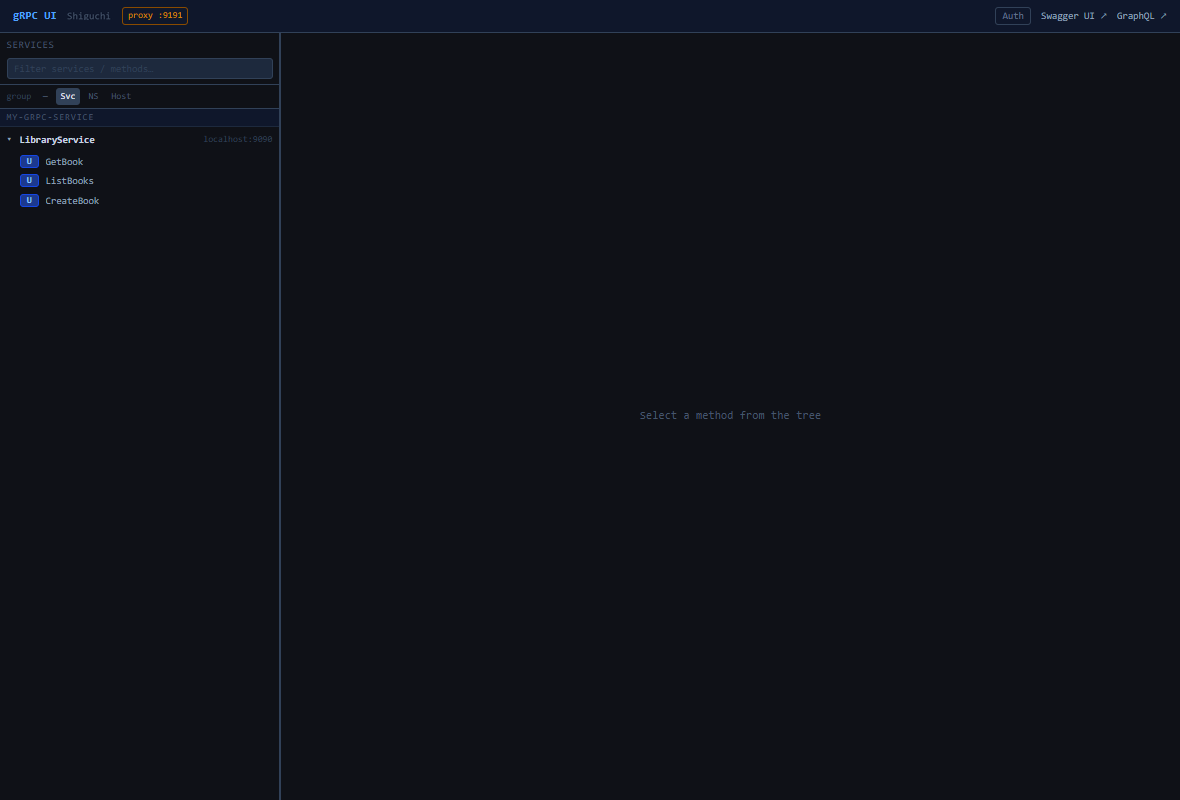
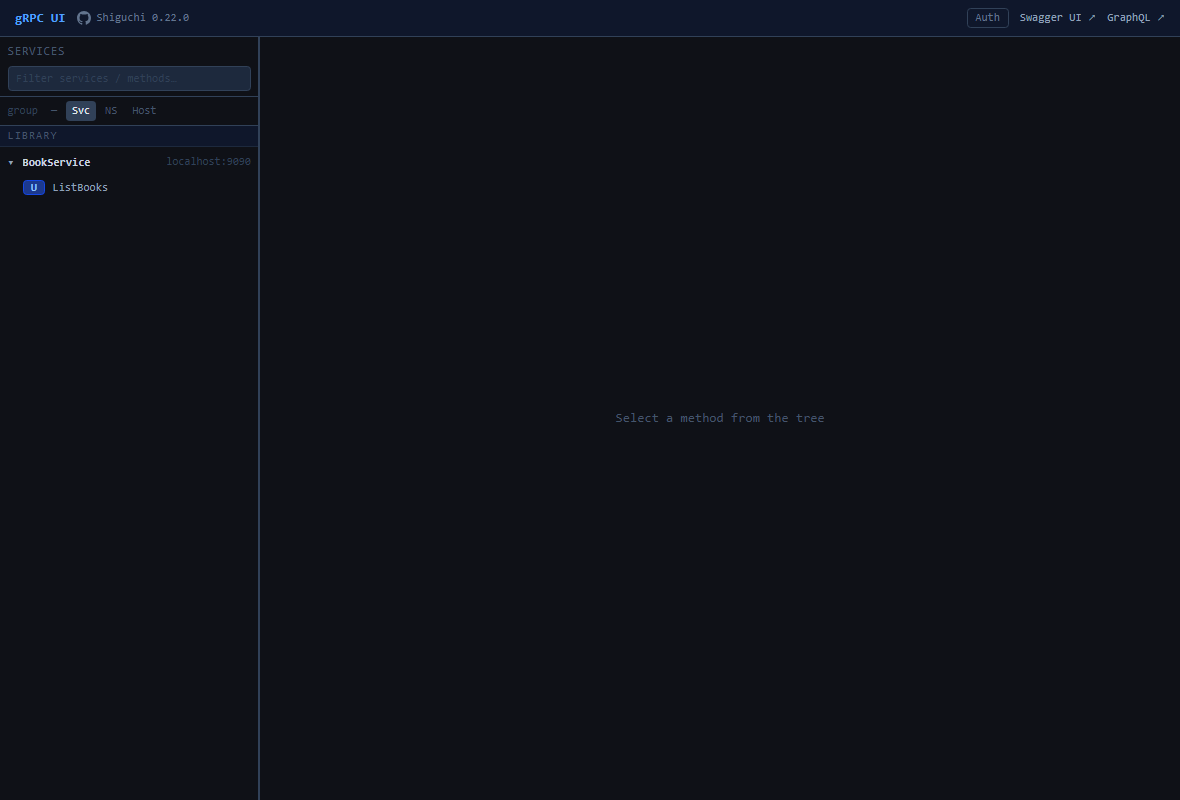
docs: GraphQL responses in the README, retaken console screenshots (#163)
README: JSON response under the object-links GraphQL query and the
quick-start GraphQL curl (illustrative values, same data as the first
example). Retaken grpc-ui-invoke.png and grpc-ui-home.png from
sample-jpa-backend (ListBooks), showing the GitHub link, version and
output-schema toggle; ui.md caption updated. The GetBook-specific shots
(tree, request, response, error) are unchanged.

Changed region(s): [[0.0, 0.0, 0.2441, 1.0], [0.8237, 0.0, 0.9763, 0.0625], [0.5186, 0.5, 0.7017, 0.5312]]

diff --git a/README.md b/README.md
@@ -124,6 +124,12 @@ type Book { id: ID!  title: String  year: Int  authorId: ID  author: Author }   
 { books(first: 2) { edges { node { title author { name } } } } }
 ```
 
+```json
+{"data":{"books":{"edges":[
+  {"node":{"title":"Heat","author":{"name":"Mann"}}},
+  {"node":{"title":"Beloved","author":{"name":"Morrison"}}}]}}}
+```
+
 However many books come back, the authors are fetched with a single `GetAuthorsByIds` call. The
 rules are in the [GraphQL annotations guide](docs/guides/graphql-annotations.md#how-the-pieces-combine).
 
@@ -177,6 +183,14 @@ curl localhost:8080/v1/books/1
 curl -X POST localhost:8080/graphql -H 'Content-Type: application/json' \
   -d '{"query":"{ bookListBooks(first: 2) { edges { node { title author } } } }"}'
 # /swagger-ui.html  and  /grpc-ui (when enabled)
+```
+
+The GraphQL call returns:
+
+```json
+{"data":{"bookListBooks":{"edges":[
+  {"node":{"title":"Heat","author":"Mann"}},
+  {"node":{"title":"Beloved","author":"Morrison"}}]}}}
 ```
 
 Full steps (Maven, annotating protos, samples, building from source):

diff --git a/docs/guides/ui.md b/docs/guides/ui.md
@@ -29,7 +29,7 @@ no grpcurl, no client code. Ships with the `shiguchi-ui-*-starter` modules and m
 
 Selecting a method opens the invoke view:
 
-![Invoking GetBook from the console](../images/grpc-ui-invoke.png)
+![Invoking ListBooks from the console](../images/grpc-ui-invoke.png)
 
 ### The request
 
